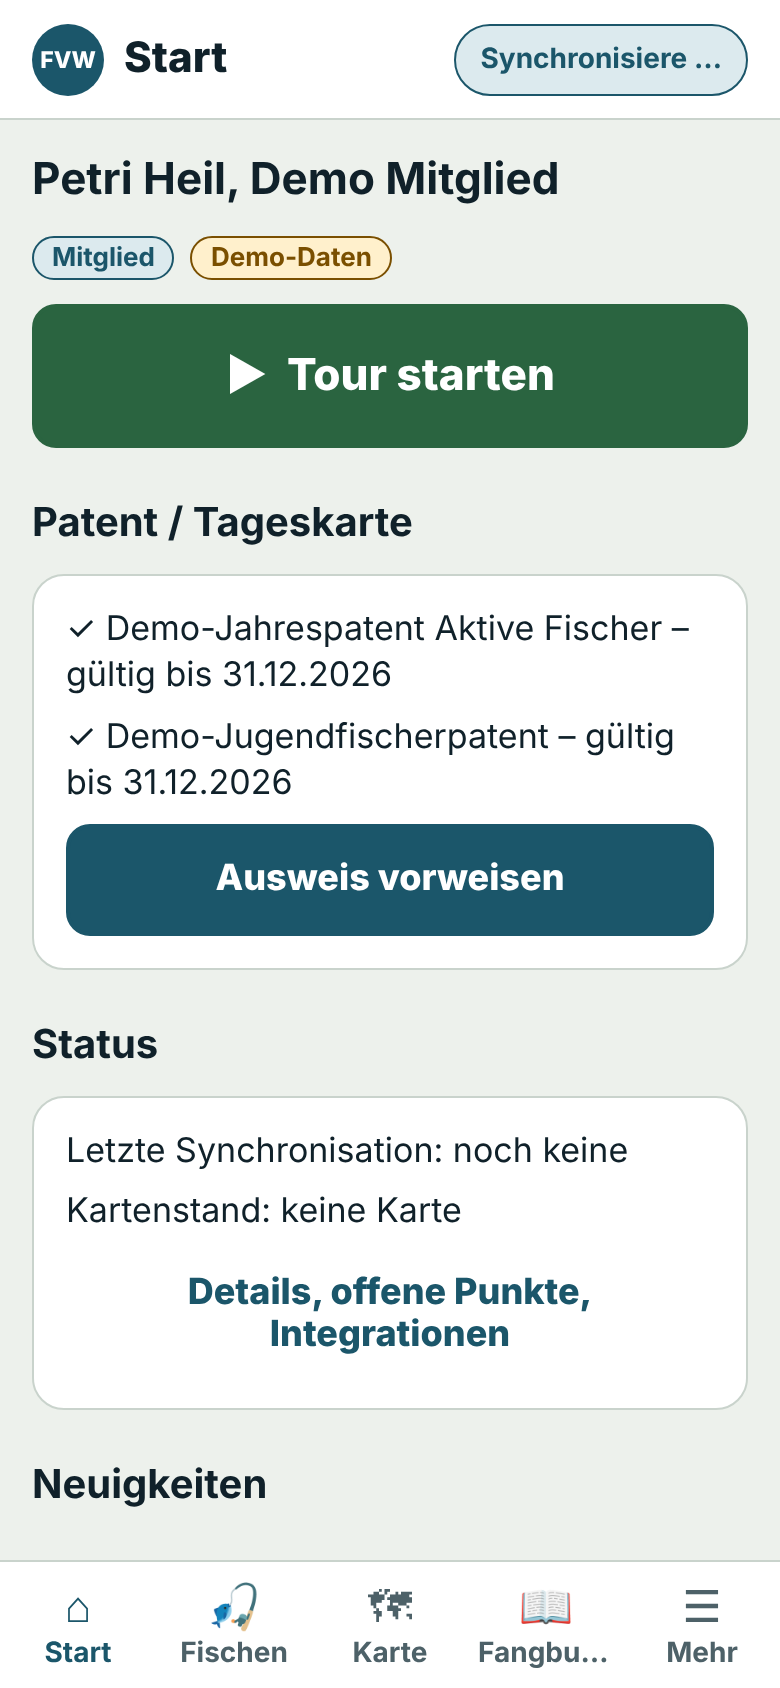
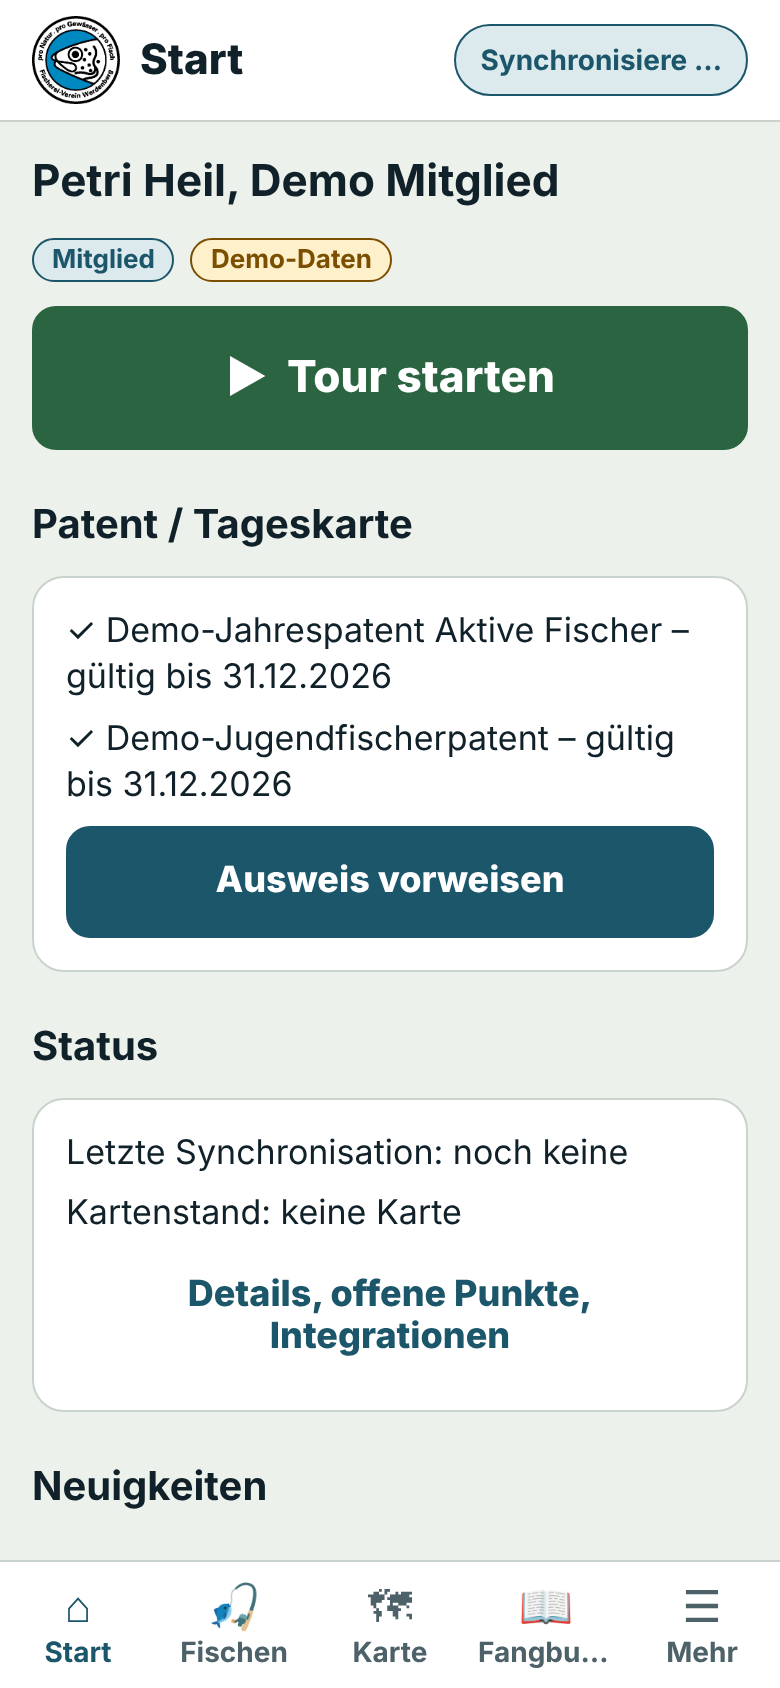
Vereinslogo im Kopf der App
logo-transparent.png (nur leerer transparenter Rand entfernt) in
app/assets, LOGO in brand.ts gesetzt, Logo im Kopf 44 px.

Claude-Session: https://claude.ai/code/session_01LSj2dCxGU2fjbuVhnGxrEj

diff --git a/app/src/components/ui.tsx b/app/src/components/ui.tsx
@@ -14,7 +14,7 @@ export function Txt({ children, style, muted, bold, size, ...rest }: { children:
 export const H1 = ({ children }: { children: ReactNode }) => <Txt size={26} bold accessibilityRole="header">{children}</Txt>;
 export const H2 = ({ children }: { children: ReactNode }) => <Txt size={20} bold accessibilityRole="header" style={{ marginTop: space.m }}>{children}</Txt>;
 
-/** Vereinslogo – proportional, unverändert. Platzhalter, solange logo-transparent.png fehlt. */
+/** Vereinslogo – proportional, unverändert. Platzhalter nur, falls kein Logo hinterlegt ist. */
 export function ClubLogo({ size = 40 }: { size?: number }) {
   const c = useColors();
   if (LOGO) return <Image source={LOGO} style={{ width: size, height: size }} resizeMode="contain" accessibilityLabel="Logo Fischereiverein Werdenberg" />;
@@ -53,7 +53,7 @@ export function Screen({ title, children, scroll = true, right, testID, back }: 
           <Pressable accessibilityRole="button" accessibilityLabel="Zurück" onPress={() => (router.canGoBack() ? router.back() : router.replace('/'))} style={{ minWidth: 48, minHeight: 48, alignItems: 'center', justifyContent: 'center' }} testID="nav-back">
             <Text style={{ fontSize: 28, color: c.water, fontWeight: '800' }}>‹</Text>
           </Pressable>
-        ) : <ClubLogo size={36} />}
+        ) : <ClubLogo size={44} />}
         <Text style={{ flex: 1, color: c.ink, fontSize: 21, fontWeight: '800' }} numberOfLines={1} accessibilityRole="header">{title}</Text>
         {right}
         <SyncPill />

diff --git a/app/src/lib/brand.ts b/app/src/lib/brand.ts
@@ -1,10 +1,8 @@
 import type { ImageSourcePropType } from 'react-native';
 
 /**
- * Vereinslogo. Die Datei `logo-transparent.png` wurde für den Prototyp NICHT geliefert.
- * Sobald sie vorliegt: Datei unverändert nach `app/assets/logo-transparent.png` kopieren und die
- * nächste Zeile ersetzen durch:
- *   export const LOGO: ImageSourcePropType | null = require('../../assets/logo-transparent.png');
+ * Vereinslogo (geliefert 21.11.2026). Gegenüber der Originaldatei ist nur der leere, transparente
+ * Rand abgeschnitten, damit das runde Logo im Kopf zentriert und gross genug erscheint.
  * Das Logo wird proportional (resizeMode="contain") und unverändert angezeigt.
  */
-export const LOGO: ImageSourcePropType | null = null;
+export const LOGO: ImageSourcePropType | null = require('../../assets/logo-transparent.png');

diff --git a/docs/08-annahmen.md b/docs/08-annahmen.md
@@ -6,7 +6,7 @@
 |---|---|---|
 | KMZ-Dateien | Alle drei enthalten **nur einen Netzwerklink**, keine Kartendaten. | Gekennzeichnet (Importbericht, Admin). Der Import lehnt reine Netzwerklink-Dateien mit Erklärung ab. |
 | Geprüfte KML-Basisdateien | **Nicht geliefert.** | Die Daten wurden am 15.11.2026 über die Netzwerklinks abgerufen. Grössen (760/219/20 KB) und Objektzahlen stimmen mit dem AD überein. Die Versionen sind aktiv, aber **als «nicht geprüfte Basis»** markiert. |
-| Vereinslogo `logo-transparent.png` | **Nicht geliefert.** | Platzhalter «FVW» in App und Admin. Einbau: Datei nach `app/assets/` kopieren und eine Zeile in `app/src/lib/brand.ts` ändern (proportional, unverändert). |
+| Vereinslogo `logo-transparent.png` | **Geliefert am 21.11.2026.** | In der App eingebaut (Kopfzeile und Anmeldung, `app/assets/logo-transparent.png`, nur der leere transparente Rand entfernt). Admin-Oberfläche zeigt noch den Platzhalter «FVW». |
 | Web-Prototyp «Fangbuch – Fischereiverein» | Im AD verlinkt, gelesen. | Fischarten, Längengrenze (1–150 cm, technisch) und Farbschema übernommen. |
 
 ## 8.2 Fachliche Annahmen (alle konfigurierbar oder als offen markiert)
